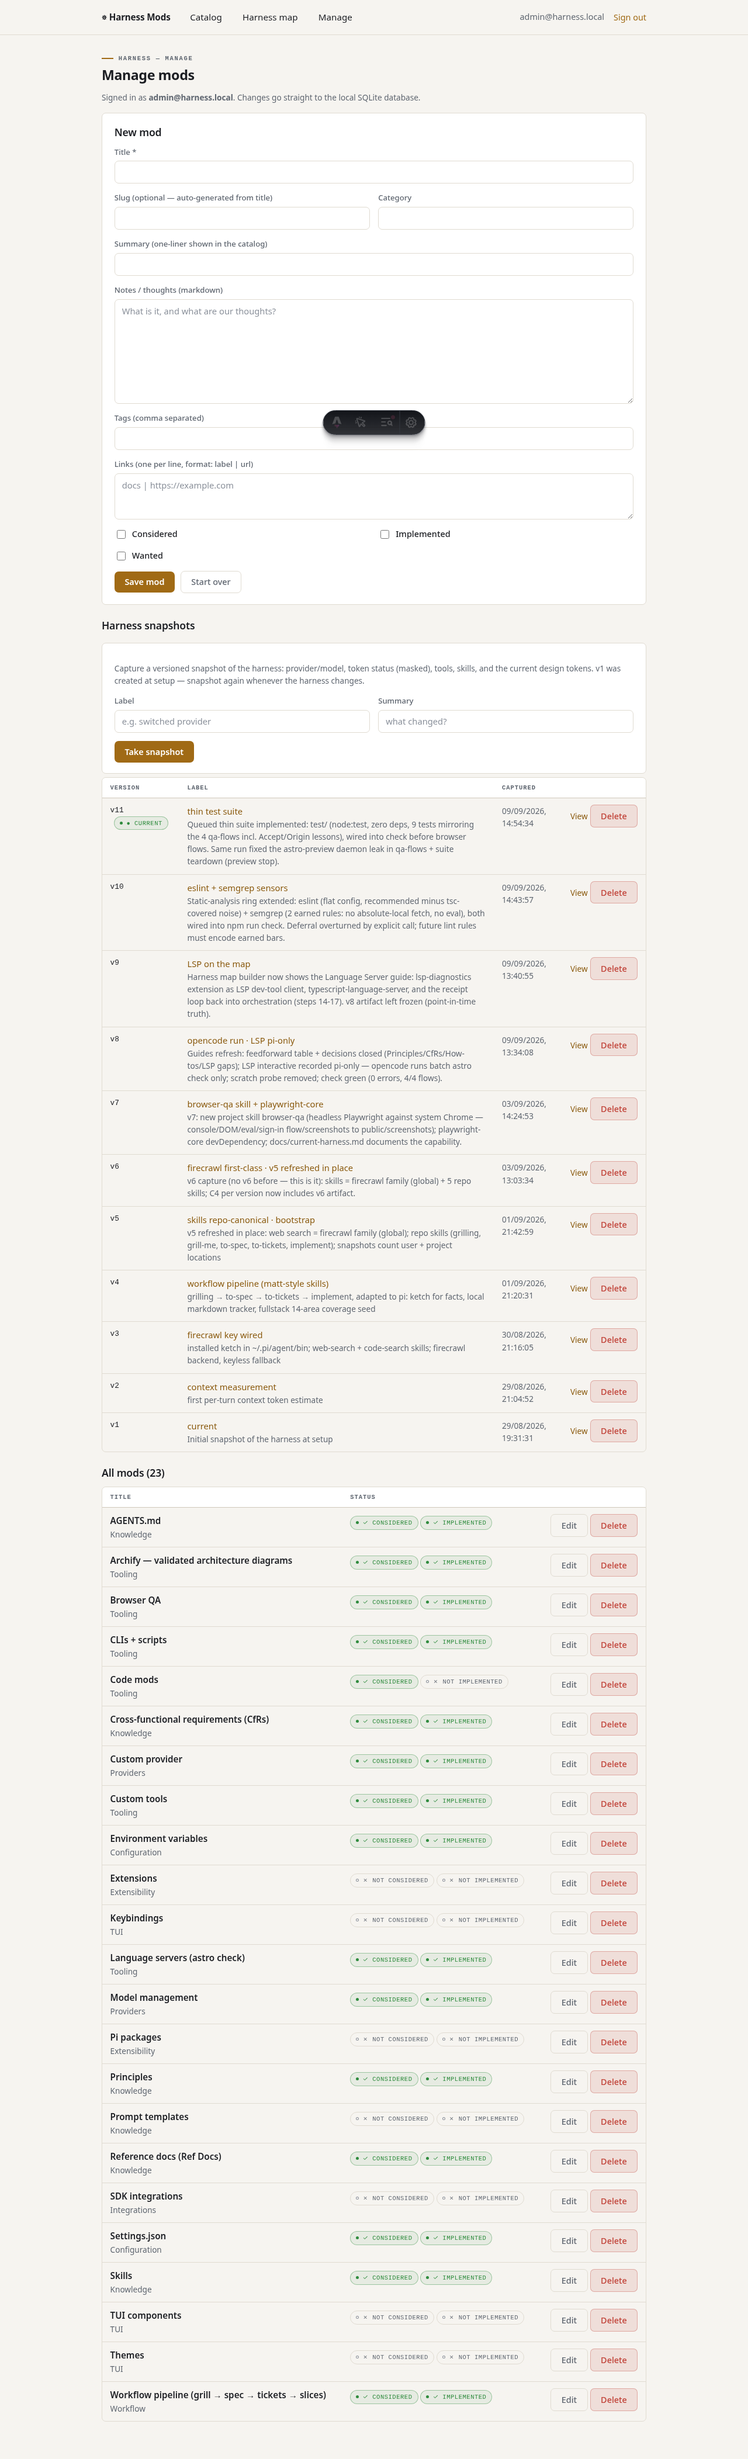
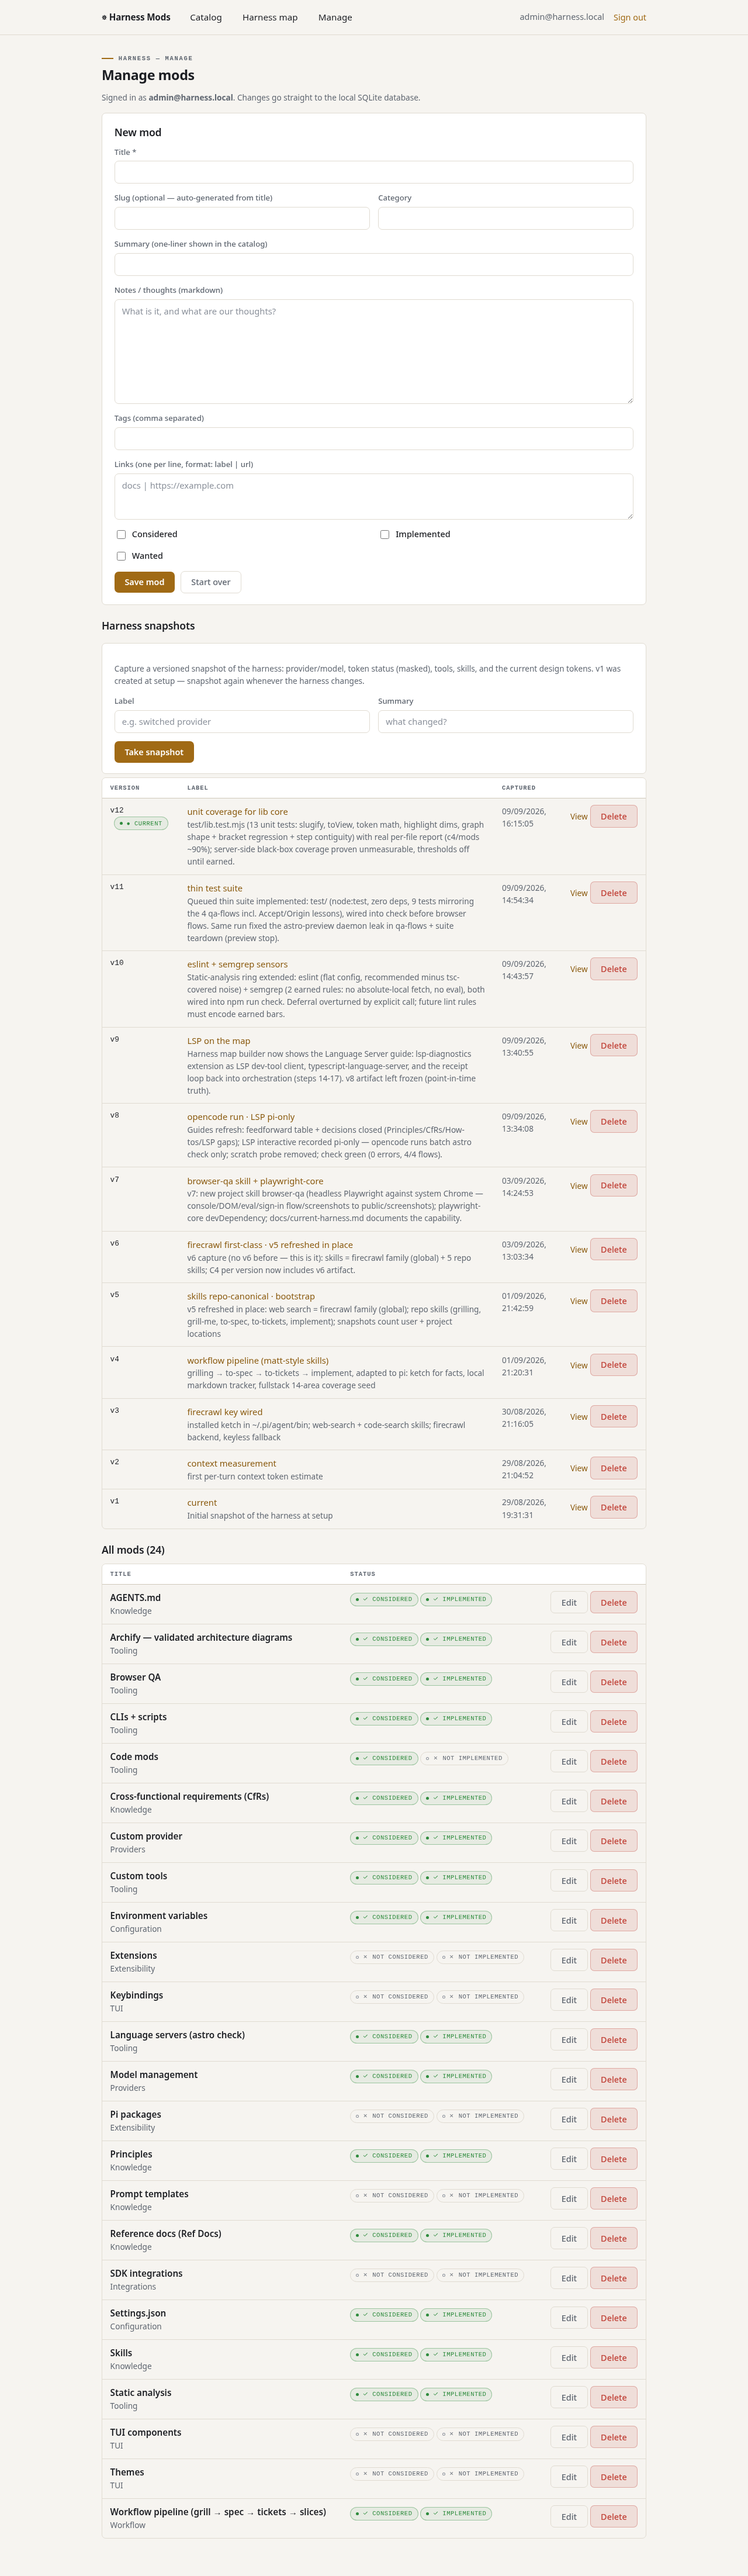
review agents

diff --git a/scripts/seed.ts b/scripts/seed.ts
@@ -458,6 +458,26 @@ Explicitly parked: **mutation testing** (trigger: ~30 tests or a slipped seam) a
       { label: 'suite runner', url: 'scripts/qa-flows.mjs' },
     ],
   },
+  {
+    title: 'Review agents',
+    category: 'Tooling',
+    summary: 'Semantic judgment after the act (Fig 2 inferential sensor): the implement self-review formalized into a read-back checklist; second-model and janitor review deferred with triggers.',
+    body: `Fig 2's inferential (semantic) feedback sensor: a model re-reading code for what deterministic checks cannot see — misdiagnosis, over-engineering, wrong slice, spec mismatch. The article rations it by cost (/code-review every change, /architecture-review rarely) and warns contradictory signals need a tiebreaker (our Principles).
+
+Status here was one unritualized line (implement step 6, "read it as a reviewer would") — same model, same window, no checklist. Earned evidence it was insufficient: the [LSP] mermaid-bracket bug sailed through it and was caught by a computational sensor instead.
+
+Formalized, not expanded (2026-09): step 6 is now a 5-point read-back — minimalism · scope · CfRs · catalog mirror · receipts — same cost, actual teeth. No second model, no new skill.
+
+Deferred with triggers: second-model spot review on risky diffs (auth, migrations, map) after the next semantic slip past the checklist; janitor/GC agents — nothing here drifts at army scale.`,
+    considered: true,
+    implemented: true,
+    wanted: false,
+    tags: ['review', 'sensor', 'inferential', 'self-review'],
+    links: [
+      { label: 'article — sensors', url: 'https://martinfowler.com/articles/harness-engineering.html' },
+      { label: 'implement skill', url: '.pi/skills/implement/SKILL.md' },
+    ],
+  },
 ];
 
 async function upsertMods() {

diff --git a/docs/Harness decisions.md b/docs/Harness decisions.md
@@ -3,7 +3,7 @@
 Decision record for applying ["Harness engineering for coding agent users"](https://martinfowler.com/articles/harness-engineering.html)
 (Böckeler) to this repo — **one section per element, added as we review the
 article 1 by 1**. Covered so far: **Principles · CfRs · Rules · Ref Docs ·
-How-tos · Language Servers (batch + interactive, pi-only) · CLIs, scripts · Code mods · Static analysis (sensors I)**.
+How-tos · Language Servers (batch + interactive, pi-only) · CLIs, scripts · Code mods · Static analysis (sensors I) · Review agents (sensors II)**.
 
 The agent-visible copies live in `AGENTS.md` (read every turn); this doc holds
 the decisions, the reasoning, and the incidents that earned them. Companion
@@ -350,3 +350,33 @@ Decisions (2026-09-09 — reviewed, have with one queued hole):
    `npm run coverage` uses the built-in flag (zero deps); thresholds
    stay off until earned — the uncovered-lines list is feedback for the
    next test session, not a gate.
+
+---
+
+## Review agents (Sensors II)
+
+Inferential (✦) feedback, Fig 2's second sensor row — semantic judgment
+after the act for what deterministic checks cannot see (misdiagnosis,
+over-engineering, wrong slice, spec mismatch). Fig 3 rations it by cost:
+`/code-review` in the first self-correction loop (cheap, every change),
+`/architecture-review` + `/detailed-review` post-integration (expensive,
+rare). Her examples: OpenAI's "garbage collection" drift-scanners,
+Stripe's heuristic-triggered hooks, the "janitor army." Her warnings:
+non-deterministic and pricey — ration it — and contradictory signals need
+a tiebreaker (that is what Principles are for).
+
+Decisions (2026-09-09 — reviewed, thin, now ritualized):
+
+1. **Status was one unritualized line** — `implement` step 6, "read it as
+   a reviewer would": same model, same window, no checklist, no evidence
+   required. Earned evidence it was insufficient: the `[LSP]`
+   mermaid-bracket bug sailed through it and was caught by a
+   computational sensor instead.
+2. **Formalized, not expanded** — step 6 is now a 5-point read-back
+   checklist (minimalism · scope · CfRs · catalog mirror · receipts),
+   same cost as before, actual teeth. No second model, no new skill: a
+   ritualized same-model review beats an unritualized line, and nothing
+   in our incident record justifies pricier review yet.
+3. **Deferred with triggers:** second-model spot review on risky diffs
+   (auth, migrations, map) after the next semantic slip past the
+   checklist; janitor/GC agents — no, nothing here drifts at army scale.

diff --git a/.pi/skills/implement/SKILL.md b/.pi/skills/implement/SKILL.md
@@ -15,6 +15,11 @@ Implement work described by a ticket from `docs/tickets/` and its spec in `docs/
 3. **Write the test first** at that seam (TDD), run it, watch it fail for the right reason.
 4. Implement until the test goes green. Run typechecking regularly and single test files regularly; run the full test suite once at the end.
 5. Respect the ticket's scope. If the work turns out bigger than the ticket says (scope creep appears), **stop and tell the user** — do not silently expand the slice.
-6. Self-review the diff (read it as a reviewer would). Commit to the current branch with the ticket id in the message: `ticket 4: <title>`.
+6. Self-review the diff before committing (read it as a skeptical reviewer, not its author). Check each item, then commit to the current branch with the ticket id in the message: `ticket 4: <title>`.
+   - **Minimalism**: every hunk serves the ticket — no speculative extras, no drive-by refactors.
+   - **Scope**: nothing outside the ticket's slice (see step 5).
+   - **CfRs**: secrets only via env (nothing logged/echoed); snapshots stay point-in-time truth; behaviour verified in real conditions, not just dev.
+   - **Catalog mirror**: any catalog-visible change is mirrored into `scripts/seed.ts`.
+   - **Receipts**: `npm run check` green with the failure evidence fed back, not summarized away.
 
 The next unblocked ticket starts only when the user says continue.
